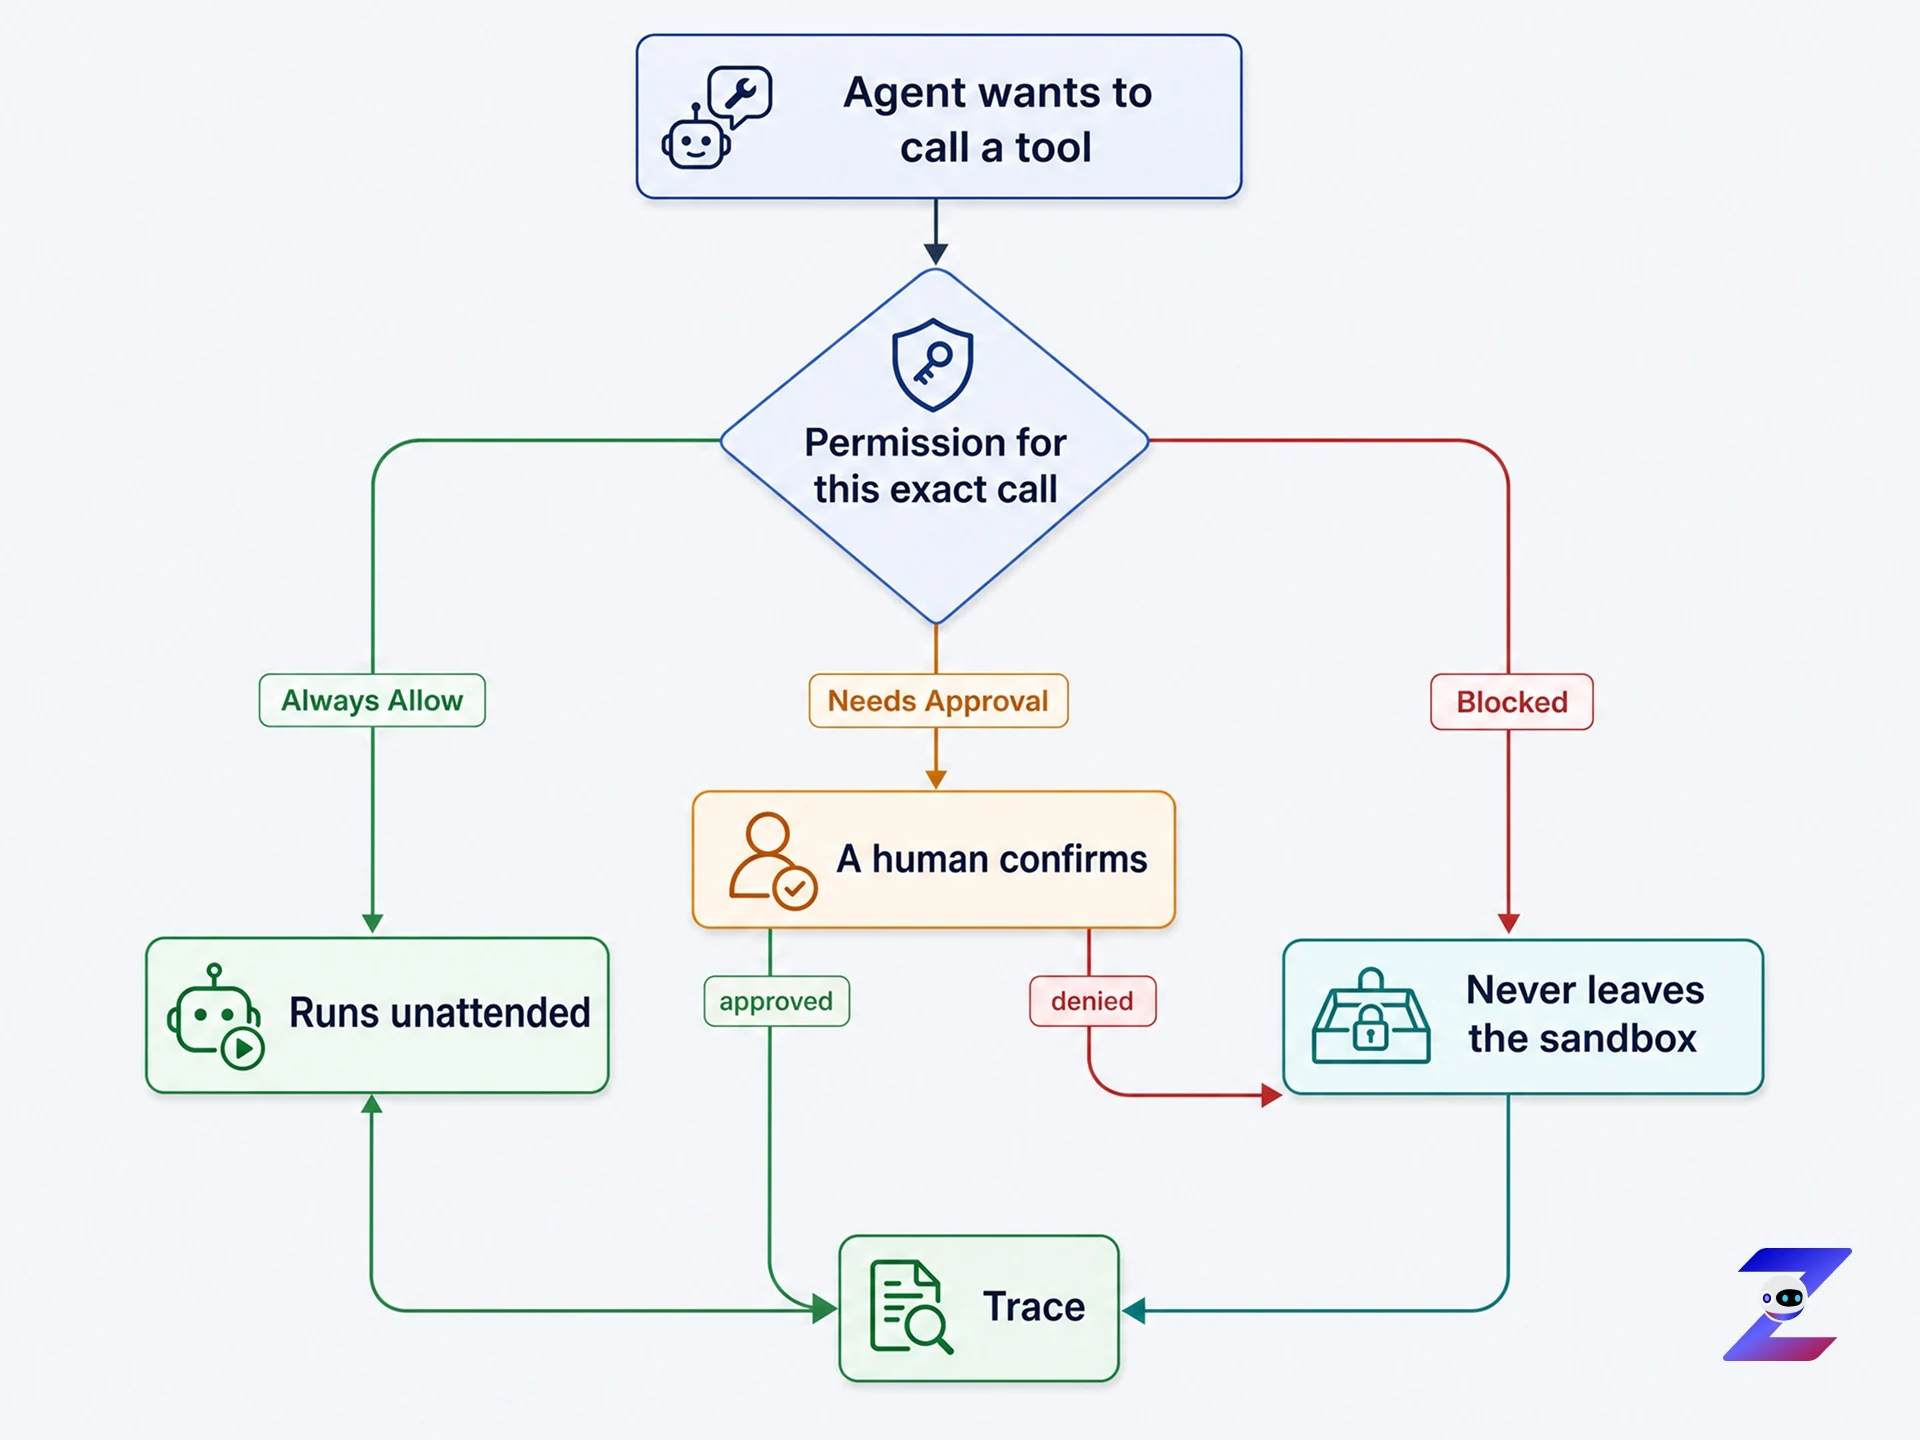
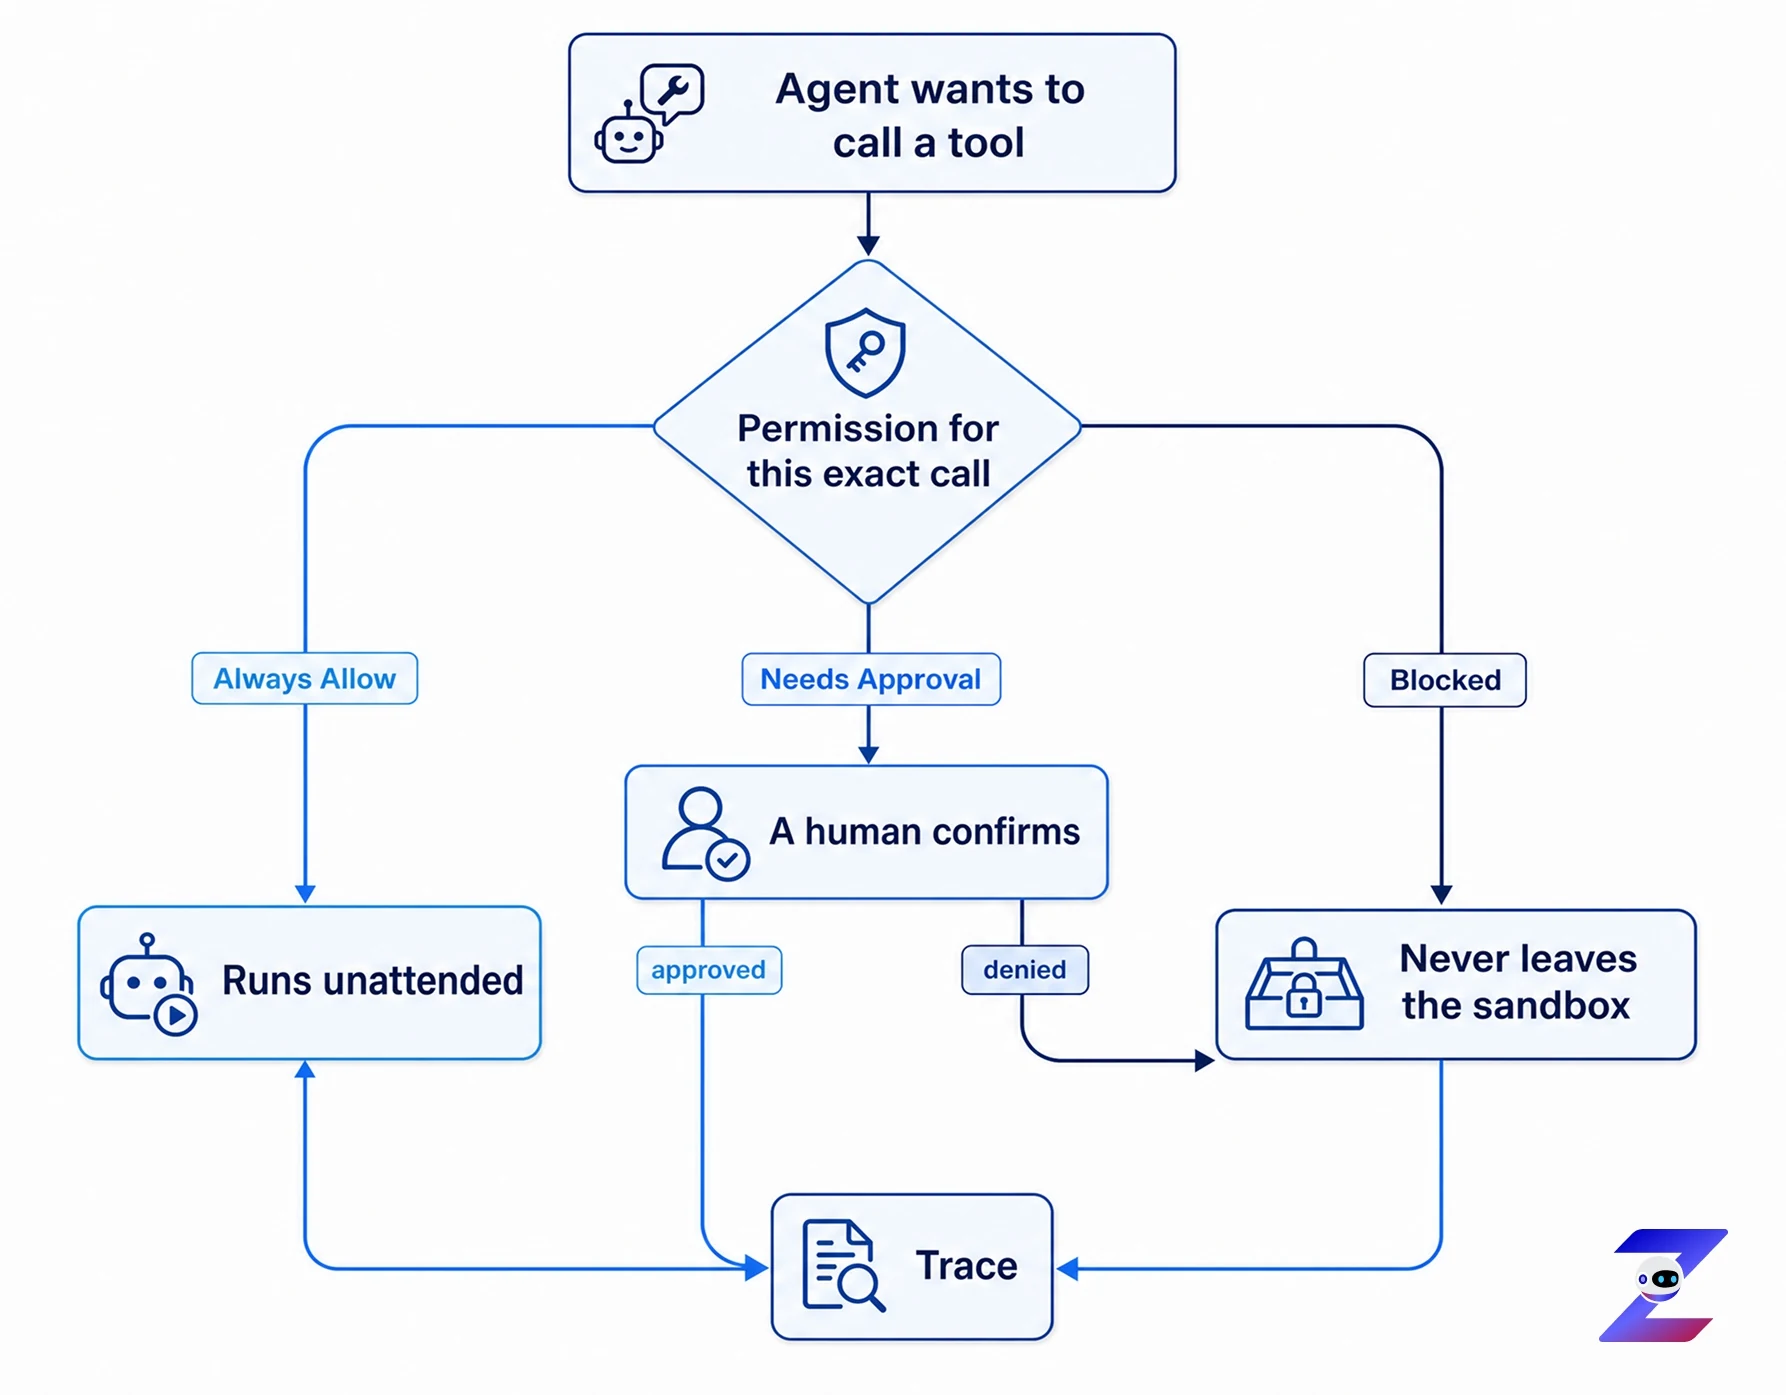
docs(readme): refresh the seven diagrams with the reworked renders
Picks up the versions updated in the shared Drive folder. Same seven
diagrams, tightened layout and trimmed margins, so the alt text and the
surrounding prose are unchanged.

Widens the workflow anatomy image to match its new aspect ratio.

diff --git a/README.md b/README.md
@@ -323,7 +323,7 @@ Steps are skills that run in sequence or in parallel. Triggers start the run.
 Outputs come back when it finishes.
 
 <p align="center">
-  <img src=".github/assets/diagrams/workflow-anatomy.webp" alt="The four parts of an AgentZ workflow: inputs with a JSON schema and triggers feed the steps, and the steps produce outputs" width="860">
+  <img src=".github/assets/diagrams/workflow-anatomy.webp" alt="The four parts of an AgentZ workflow: inputs with a JSON schema and triggers feed the steps, and the steps produce outputs" width="900">
 </p>
 
 ### How one workflow uses the platform
